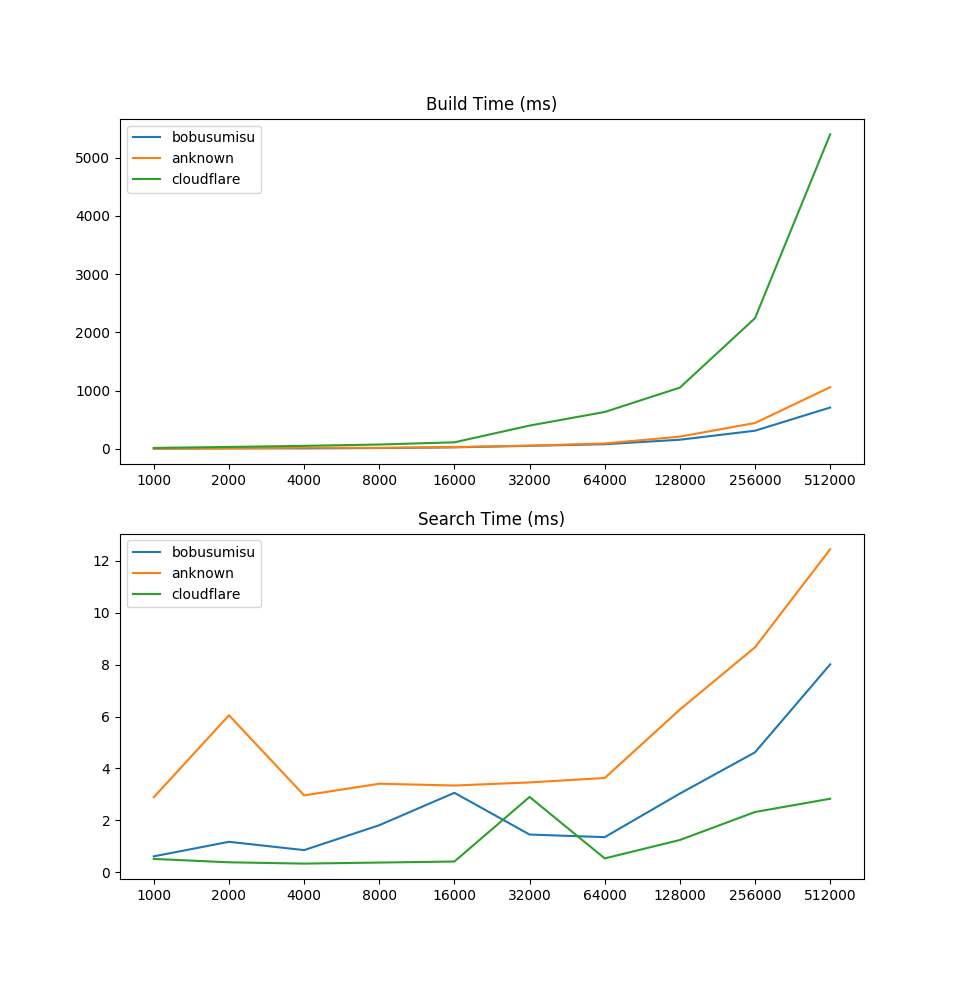
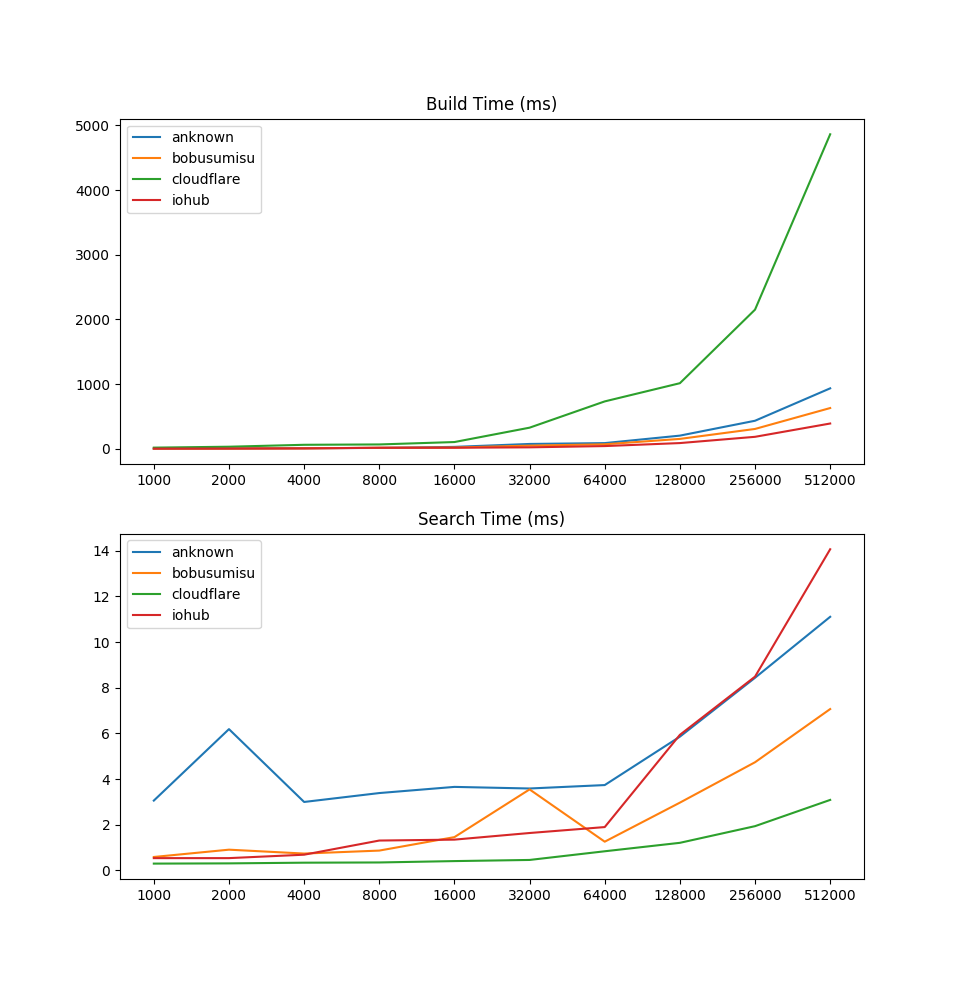
jau

diff --git a/benchmark/main.go b/benchmark/main.go
@@ -5,13 +5,16 @@ import (
 	"fmt"
 	"io/ioutil"
 	"os"
+	"runtime"
 	"strings"
 	"text/tabwriter"
 	"time"
 
+	bs "local/aho-corasick"
+
 	ak "github.com/anknown/ahocorasick"
-	bs "github.com/bobusumisu/aho-corasick"
 	cf "github.com/cloudflare/ahocorasick"
+	ih "github.com/iohub/ahocorasick"
 )
 
 func timeStuff(fn func()) float64 {
@@ -21,7 +24,40 @@ func timeStuff(fn func()) float64 {
 	return float64(end.UnixNano()-start.UnixNano()) * 1e-6
 }
 
-func anknown(patterns []string, input string) (float64, float64, int) {
+func totalAlloc() float64 {
+	var m runtime.MemStats
+	runtime.ReadMemStats(&m)
+	return float64(m.TotalAlloc) / (1024 * 1024 * 1024)
+}
+
+func iohub(patterns []string, input string) (float64, float64, int, float64) {
+	m := ih.NewMatcher()
+
+	buildTime := timeStuff(func() {
+		for i, pattern := range patterns {
+			m.Insert([]byte(pattern), i)
+		}
+		m.Compile()
+	})
+
+	seq := []byte(input)
+	numMatches := 0
+
+	searchTime := timeStuff(func() {
+		resp := m.Match(seq)
+		for resp.HasNext() {
+			items := resp.NextMatchItem(seq)
+			for range items {
+				numMatches++
+			}
+		}
+		resp.Release()
+	})
+
+	return buildTime, searchTime, numMatches, totalAlloc()
+}
+
+func anknown(patterns []string, input string) (float64, float64, int, float64) {
 	runePatterns := make([][]rune, len(patterns))
 	for i, pattern := range patterns {
 		runePatterns[i] = []rune(pattern)
@@ -41,10 +77,10 @@ func anknown(patterns []string, input string) (float64, float64, int) {
 		matches = m.MultiPatternSearch(runeInput, false)
 	})
 
-	return buildTime, searchTime, len(matches)
+	return buildTime, searchTime, len(matches), totalAlloc()
 }
 
-func bobusumisu(patterns []string, input string) (float64, float64, int) {
+func bobusumisu(patterns []string, input string) (float64, float64, int, float64) {
 	var matches []*bs.Match
 	var trie *bs.Trie
 
@@ -56,10 +92,10 @@ func bobusumisu(patterns []string, input string) (float64, float64, int) {
 		matches = trie.MatchString(input)
 	})
 
-	return buildTime, searchTime, len(matches)
+	return buildTime, searchTime, len(matches), totalAlloc()
 }
 
-func cloudflare(patterns []string, input string) (float64, float64, int) {
+func cloudflare(patterns []string, input string) (float64, float64, int, float64) {
 	var m *cf.Matcher
 	var matches []int
 	buildTime := timeStuff(func() {
@@ -68,16 +104,17 @@ func cloudflare(patterns []string, input string) (float64, float64, int) {
 	searchTime := timeStuff(func() {
 		matches = m.Match([]byte(input))
 	})
-	return buildTime, searchTime, len(matches)
+	return buildTime, searchTime, len(matches), totalAlloc()
 }
 
 var tests = []struct {
 	name string
-	fn   func([]string, string) (float64, float64, int)
+	fn   func([]string, string) (float64, float64, int, float64)
 }{
 	{"anknown   ", anknown},
 	{"bobusumisu", bobusumisu},
 	{"cloudflare", cloudflare},
+	{"iohub     ", iohub},
 }
 
 func main() {
@@ -106,13 +143,14 @@ func main() {
 	input := string(inputBytes)
 
 	w := tabwriter.NewWriter(os.Stdout, 0, 0, 4, ' ', tabwriter.AlignRight)
-	fmt.Fprintf(w, "name\tpatterns\tbuild\tsearch\tmatches\t\n")
+	fmt.Fprintf(w, "name\tpatterns\tbuild\tsearch\tmatches\talloc\t\n")
 	for i := 1000; i < len(patterns); i *= 2 {
 		for _, test := range tests {
-			buildTime, searchTime, numMatches := test.fn(patterns[:i], input)
-			fmt.Fprintf(w, "%s\t%d\t%.02fms\t%.02fms\t%d\t\n", test.name, i, buildTime, searchTime, numMatches)
+			runtime.GC()
+			buildTime, searchTime, numMatches, totalAlloc := test.fn(patterns[:i], input)
+			fmt.Fprintf(w, "%s\t%d\t%.02fms\t%.02fms\t%d\t%.02fGiB\t\n", test.name, i, buildTime, searchTime, numMatches, totalAlloc)
 		}
-		fmt.Fprintf(w, "\t\t\t\t\t\t\n")
+		fmt.Fprintf(w, "\t\t\t\t\t\t\t\n")
 	}
 
 	w.Flush()

diff --git a/README.md b/README.md
@@ -6,6 +6,16 @@ Implementation of the Aho-Corasick string-search algorithm in Go.
 
 Licensed under MIT License.
 
+## Details
+
+This implementation does not use a [Double-Array Trie](https://linux.thai.net/~thep/datrie/datrie.html) as in my
+[implementation](https://github.com/BobuSumisu/go-ahocorasick) from a couple of years back.
+
+This reduces the build time drastically, but at the cost of higher memory consumption.
+
+The search time is still fast, and comparable to other Go implementations I have found on github that claims to be fast
+(see [performance](#Performance)).
+
 ## Documentation
 
 Can be found at [godoc.org](https://godoc.org/github.com/BobuSumisu/aho-corasick).
@@ -51,27 +61,8 @@ builder.LoadPatterns("patterns.txt")
 builder.LoadStrings("strings.txt")
 ```
 
-`LoadPatterns` expects patterns as hexadecimal strings, and both functions expects one
-pattern per line.
-
-## Saving and Loading
-
-A `Trie` can be saved to file and loaded, to avoid having to build a trie multiple times:
-
-```go
-if err := trie.Save("my.trie"); err != nil {
-    log.Fatal(err)
-}
-```
-
-Loading it:
-
-```go
-trie, err := LoadTrie("my.trie")
-if err != nil {
-    log.Fatal(err)
-}
-```
+Both functions expects a text file with one pattern per line. `LoadPatterns` expects the pattern to
+be in hexadecimal form.
 
 ## Performance
 
@@ -98,6 +89,19 @@ Build and search time grows quite linearly with regards to number of patterns an
 Inspired by [anknown](https://github.com/anknown/ahocorasick) I also wanted to check how my implementation compared
 to other Aho-Corasick implementations in Go.
 
-I created a simple [benchmark](./benchmark/main.go) and ran it on my laptop.
+I created a simple [benchmark](./benchmark/main.go) and ran it on my laptop. With 512,000 patterns, my implementation
+has comparable build time and faster search time than the other implementations:
 
-![benchmark plot](./benchmark/benchmark.png)
+    anknown         512000     932.57ms    10.81ms      94000
+    bobusumisu      512000     631.77ms     7.20ms      94000
+    cloudflare      512000    4879.41ms     2.77ms       4490
+    iohub           512000     393.96ms    14.19ms      91986
+
+[cloudflare](https://github.com/cloudflare/ahocorasick) is implemented a bit differently though. It doesn't output
+position of matches but returns indices into the original patterns array.
+
+### Memory Usage
+
+As mentioned, the memory consumption will be quite high compared to a double-array trie
+implementation. Especially during the build phase (which currently contains a lot of object
+allocations).
